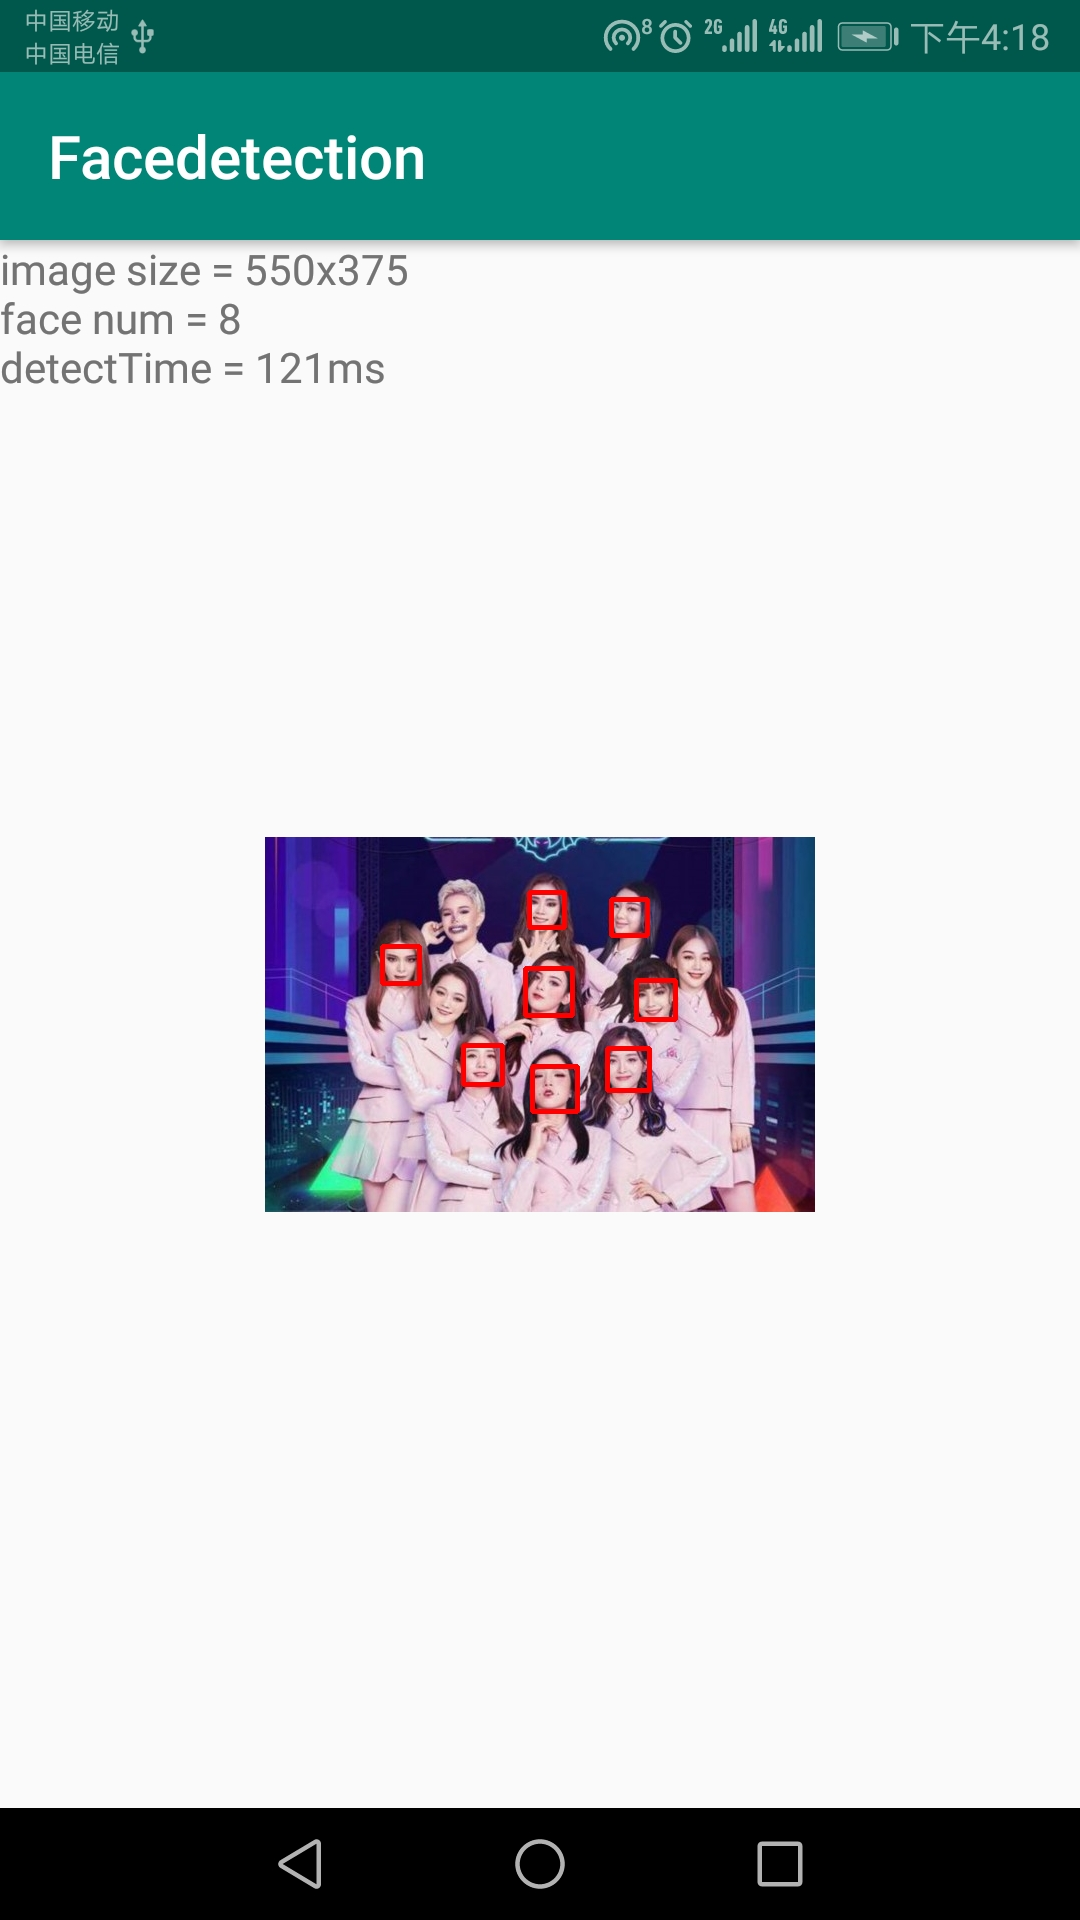
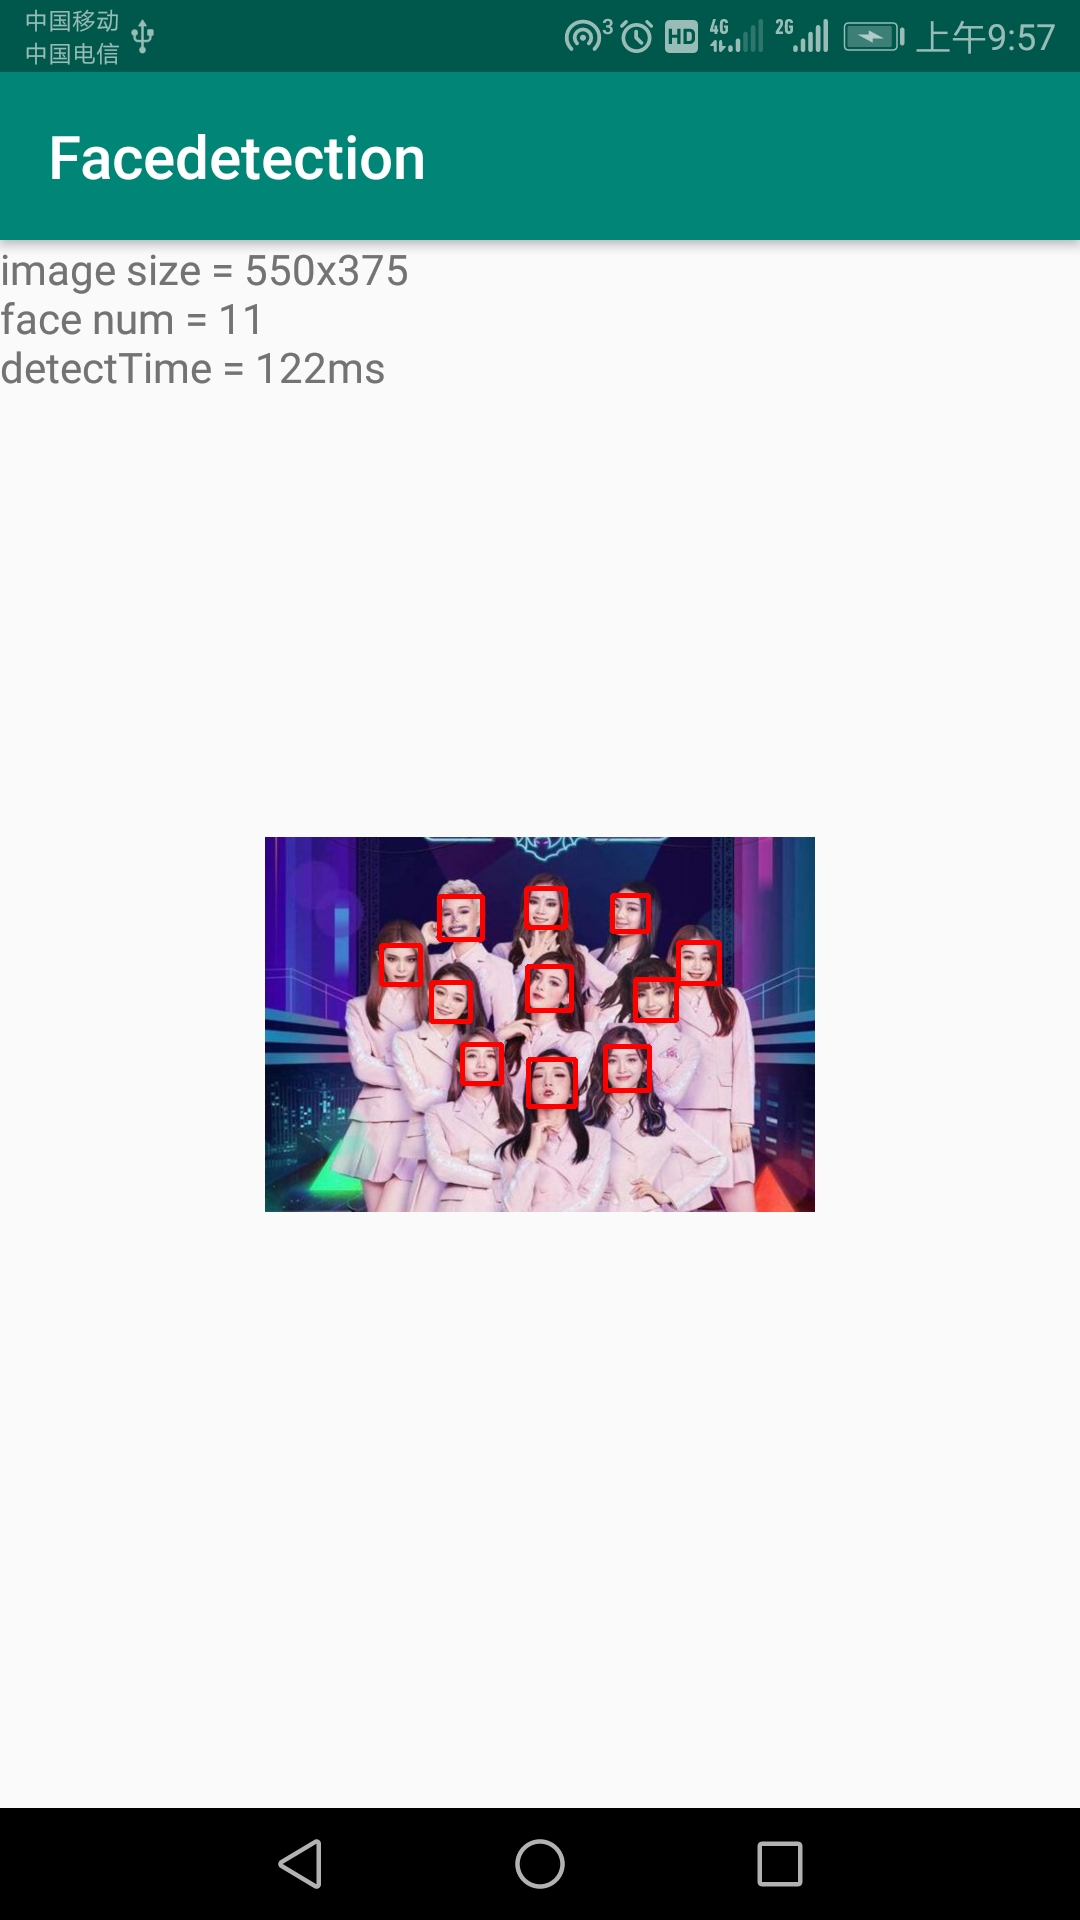
rgb to bgr for android jni

diff --git a/mobile/Android/app/src/main/cpp/facedetectcnn-jni.cpp b/mobile/Android/app/src/main/cpp/facedetectcnn-jni.cpp
@@ -16,11 +16,11 @@ Java_org_dp_facedetection_MainActivity_facedetect(JNIEnv *env,jobject /* this */
 {
     jobjectArray faceArgs = nullptr;
     Mat& img  = *(Mat*)matAddr;
-    Mat rgb = img.clone();
-    cvtColor(img, rgb, COLOR_RGBA2RGB);
+    Mat bgr = img.clone();
+    cvtColor(img, bgr, COLOR_RGBA2BGR);
     __android_log_print(ANDROID_LOG_ERROR, JNITag,"convert RGBA to RGB");
     //load an image and convert it to gray (single-channel)
-    if(rgb.empty())
+    if(bgr.empty())
     {
         fprintf(stderr, "Can not convert image");
         return faceArgs;
@@ -43,7 +43,7 @@ Java_org_dp_facedetection_MainActivity_facedetect(JNIEnv *env,jobject /* this */
     //////////////////////////////////////////
     //!!! The input image must be a RGB one (three-channel)
     //!!! DO NOT RELEASE pResults !!!
-    pResults = facedetect_cnn(pBuffer, (unsigned char*)(rgb.ptr(0)), rgb.cols, rgb.rows, (int)rgb.step);
+    pResults = facedetect_cnn(pBuffer, (unsigned char*)(bgr.ptr(0)), bgr.cols, bgr.rows, (int)bgr.step);
     int numOfFaces = pResults ? *pResults : 0;
     __android_log_print(ANDROID_LOG_ERROR, JNITag,"%d faces detected.\n", numOfFaces);
 

diff --git a/mobile/Android/app/src/main/cpp/facedetectcnn.h b/mobile/Android/app/src/main/cpp/facedetectcnn.h
@@ -43,7 +43,7 @@ the use of this software, even if advised of the possibility of such damage.
 
 
 int * facedetect_cnn(unsigned char * result_buffer, //buffer memory for storing face detection results, !!its size must be 0x20000 Bytes!!
-                    unsigned char * rgb_image_data, int width, int height, int step); //input image, it must be RGB (three-channel) image!
+                    unsigned char * rgb_image_data, int width, int height, int step); //input image, it must be BGR (three channels) insteed of RGB image!
 
 
 
